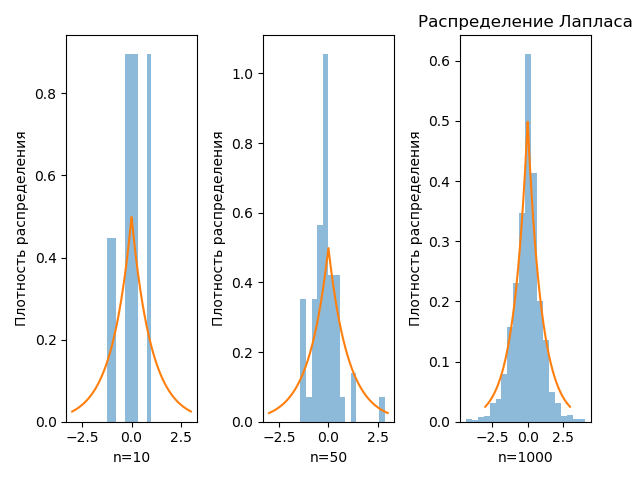
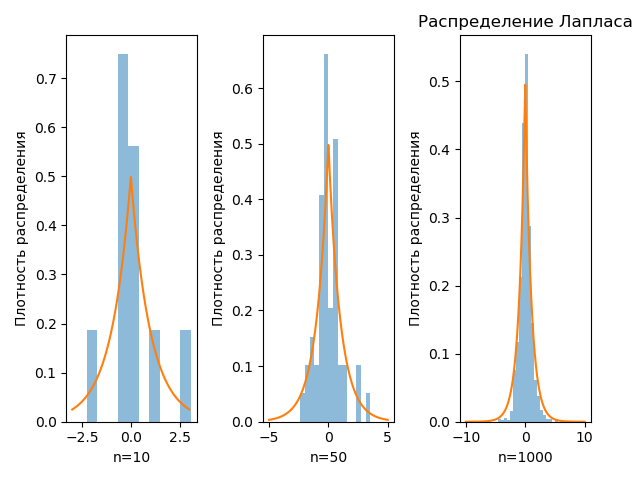
refactoring

diff --git a/lab_1.py b/lab_1.py
@@ -21,11 +21,12 @@ plt.show()
 
 #   LAPLACE
 plt.figure()
+c_lim=[3,5,10]
 for i in range(len(buf_size)):
     plt.subplot(1,len(buf_size), i+1)
     x =  laplace.rvs(scale = sqrt(1/2),size=buf_size[i])
     plt.hist(x, size_columns[i], density=True, histtype='stepfilled', alpha=0.5)
-    y = linspace(-3, 3, 1000)
+    y = linspace(-c_lim[i], c_lim[i], 1000)
     plt.plot(y,laplace.pdf(y))
     plt.xlabel("n="+ str(buf_size[i]))
     plt.ylabel("Плотность распределения")
@@ -51,11 +52,13 @@ plt.show()
 
 #   POISSION
 plt.figure()
+
+c_lim=[20,20,30]
 for i in range(len(buf_size)):
     plt.subplot(1,len(buf_size), i+1)
     x = poisson.rvs(10, size=buf_size[i])
     plt.hist(x, size_columns[i], density=True, histtype='stepfilled', alpha=0.5)
-    y=linspace(0,20,21)
+    y=linspace(0,c_lim[i],c_lim[i]+1)
     plt.plot(y,poisson.pmf(y, 10))
     plt.xlabel("n="+ str(buf_size[i]))
     plt.ylabel("Плотность распределения")
